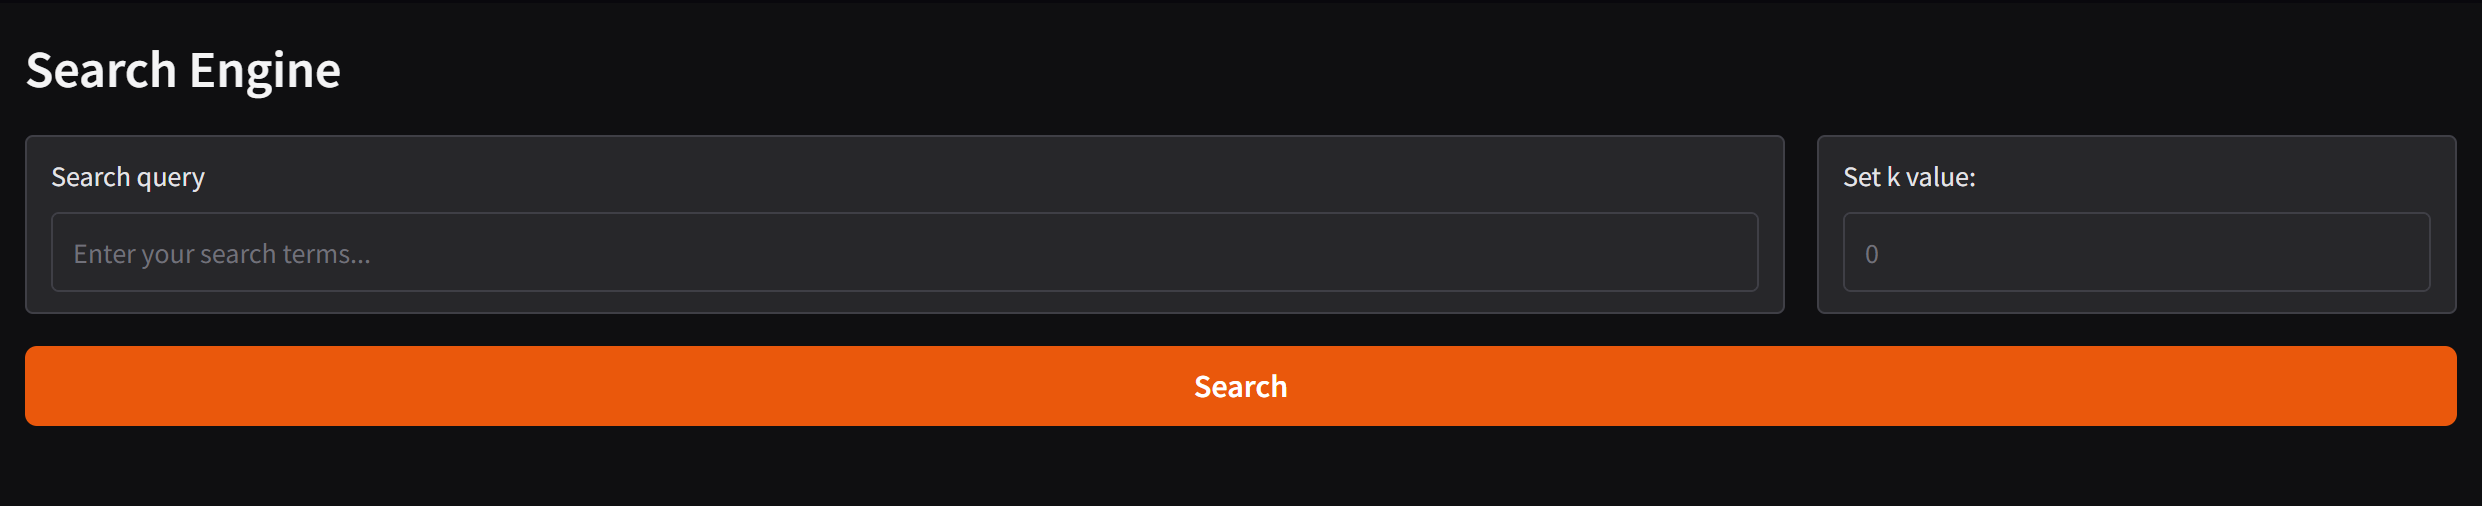
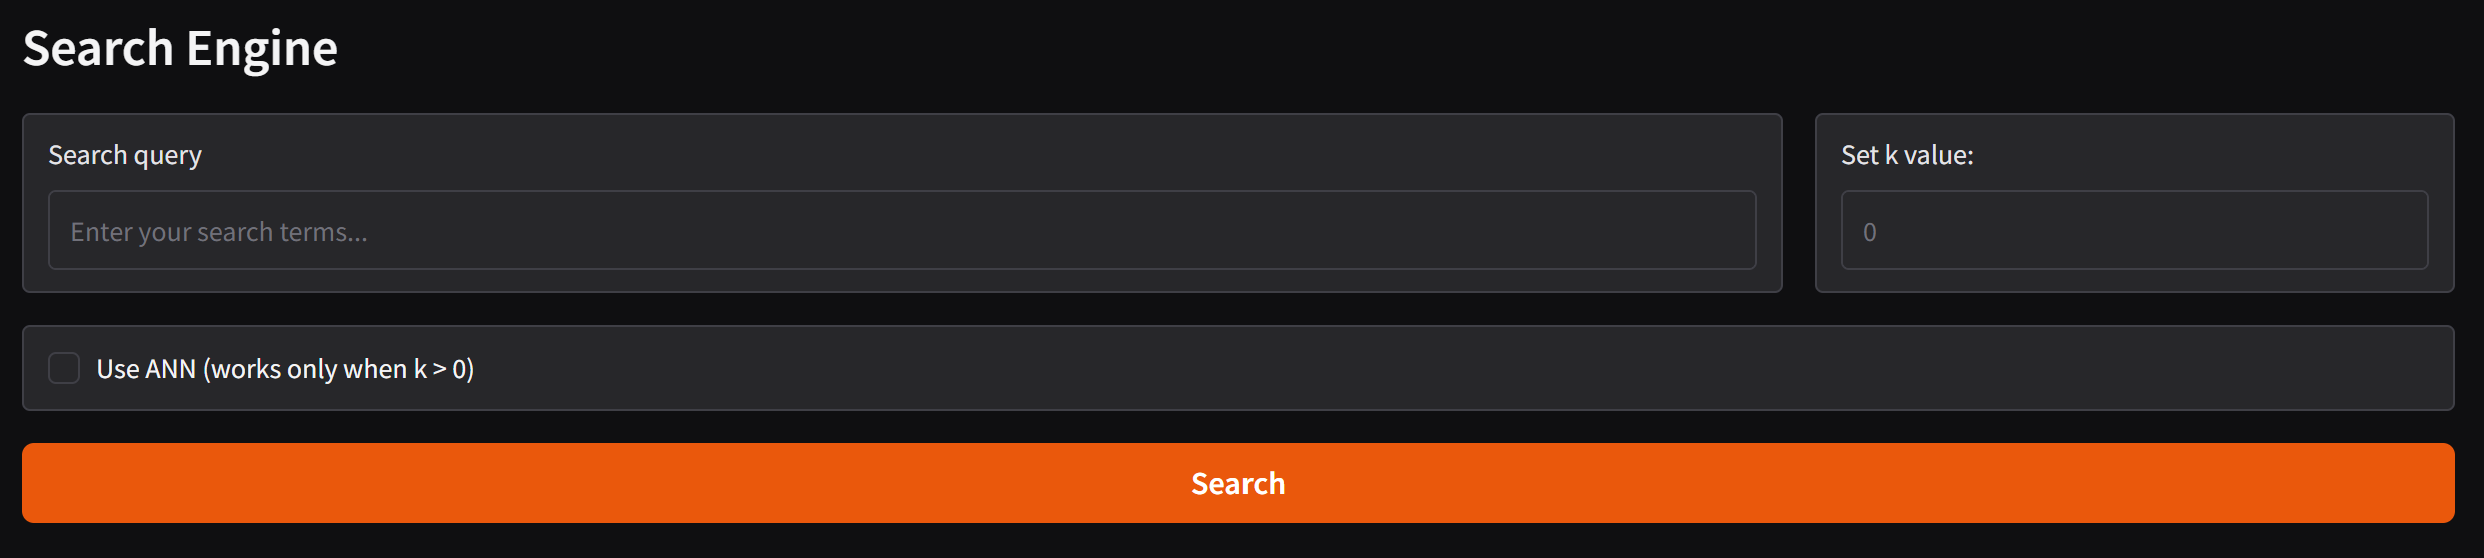
added ANN and changes to README.md

diff --git a/SearchEngine.py b/SearchEngine.py
@@ -7,6 +7,7 @@ from nltk.tokenize import word_tokenize
 from sklearn.feature_extraction.text import TfidfTransformer
 from sklearn.decomposition import TruncatedSVD
 from sklearn.preprocessing import normalize
+import hnswlib
 
 def cosine_similarity(q, A):
     print(q.shape, A.shape)
@@ -30,11 +31,11 @@ def tf_idf(matrix):
 
 
 class SearchEngine:
-    def __init__(self):  # normalized=True
-        # self.normalized = normalized
+    def __init__(self):
         self.k = 0
         self.reduced_matrix = None
         self.svd = None
+        self.p = None
         terms_by_doc = sp.sparse.load_npz("terms_by_doc.npz")
         with open("documents.json", "r") as f:
             self.documents = json.load(f)
@@ -43,10 +44,9 @@ class SearchEngine:
         with open("stop_words.txt", 'r') as sw_file:
             self.stop_words = set(sw_file.read().splitlines())
         self.stemmer = PorterStemmer()
-        # perfoming TF-IDF on the matrix
         tfidf_transformer = TfidfTransformer()
         self.tfidf_matrix = tfidf_transformer.fit_transform(
-            terms_by_doc.T).T  # if self.normalized else tf_idf(terms_by_doc)
+            terms_by_doc.T).T
 
     def _reduce_svd_matrix(self, k):
         matrix_file = "reduced_matrix_" + str(k) + ".pkl"
@@ -65,7 +65,21 @@ class SearchEngine:
                 pickle.dump(svd, file)
         return reduced_matrix, svd
 
-    def search(self, search_terms: str, k: int = 0):
+    def _get_ann_index(self, k):
+        index_file = "ann_index_" + str(k) + ".pkl"
+        try:
+            with open(index_file, 'rb') as file:
+                p = pickle.load(file)
+        except FileNotFoundError:
+            p = hnswlib.Index(space='cosine', dim=self.reduced_matrix.shape[0])
+            p.init_index(max_elements=self.reduced_matrix.shape[1])
+            p.set_ef(100)
+            p.add_items(self.reduced_matrix.T)
+            with open(index_file, 'wb') as file:
+                pickle.dump(p, file)
+        return p
+
+    def search(self, search_terms: str, k: int = 0, ann: bool = False):
         query = sp.sparse.lil_matrix((len(self.terms), 1))
         words = word_tokenize(search_terms.lower())
         stemmed_words = [self.stemmer.stem(word) for word in words if word not in self.stop_words]
@@ -76,28 +90,40 @@ class SearchEngine:
         for term in filtered_terms:
             idx = self.terms[term]
             query[idx, 0] += 1
-            query *= 1 / query.sum()
+        query *= 1 / query.sum()
         if k == 0:
+            if ann:
+                print("To use ANN, k has to be greater than 0. This search is performed using cosine similarity")
             fit = cosine_similarity_normalized(query, self.tfidf_matrix).toarray()[0]
-        elif k == self.k:
-            reduced_query = self.svd.transform(query.T)
-            reduced_query = normalize(reduced_query, norm='l2', axis=1).T
-            fit = cosine_similarity_normalized(reduced_query, self.reduced_matrix)[0]
+            result_indices = np.argsort(-fit)
+            indices = result_indices[: 20]
+            accuracy = fit[indices]
         else:
-            raw_reduced_matrix, self.svd = self._reduce_svd_matrix(k)
-            self.reduced_matrix = normalize(raw_reduced_matrix, norm='l2', axis=1).T
+            if k != self.k:
+                raw_reduced_matrix, self.svd = self._reduce_svd_matrix(k)
+                self.reduced_matrix = normalize(raw_reduced_matrix, norm='l2', axis=1).T
+                if ann:
+                    self.p = self._get_ann_index(k)
+                self.k = k
             reduced_query = self.svd.transform(query.T)
             reduced_query = normalize(reduced_query, norm='l2', axis=1).T
-            fit = cosine_similarity_normalized(reduced_query, self.reduced_matrix)[0]
-            self.k = k
+            if ann:
+                indices, distances = self.p.knn_query(reduced_query.T, k=20)
+                accuracy = 1 - distances[0]
+                indices = indices[0]
+            else:
+                fit = cosine_similarity_normalized(reduced_query, self.reduced_matrix)[0]
+                result_indices = np.argsort(-fit)
+                indices = result_indices[: 20]
+                accuracy = fit[indices]
 
-        result_indices = np.argsort(-fit)
         results = [
             {
                 "title": f"{self.documents[idx]}",
                 "url": f"{self.documents[idx]}",
-                "snippet": f"Match accuracy: {fit[idx]}",
-            } for idx in result_indices[: 20]]
+                "snippet": f"Match accuracy: {acc}",
+            } for idx, acc in zip(indices, accuracy)]
+
         return results
 
 

diff --git a/main.py b/main.py
@@ -2,10 +2,9 @@ import gradio as gr
 from SearchEngine import SearchEngine
 
 
-# Format results with HTML for better display
-def get_and_format_search_results(query, k):
+def get_and_format_search_results(query, k, ann):
     k = int(k) if k != '' else 0
-    results = SE.search(query, k=k)
+    results = SE.search(query, k=k, ann=ann)
     html = "<div style='font-family: Arial, sans-serif;'>"
     for result in results:
         html += f"""
@@ -26,13 +25,15 @@ with gr.Blocks(title="Search Engine") as web_ui:
             search_input = gr.Textbox(label="Search query", placeholder="Enter your search terms...")
         with gr.Column(scale=1):
             k_value = gr.Textbox(label="Set k value:", placeholder="0")
+    ann_checkbox = gr.Checkbox(label="Use ANN (works only when k > 0)", value=False)
 
     search_button = gr.Button("Search", variant="primary")
     results_output = gr.HTML(label="Search Results")
 
+
     search_button.click(
         fn=get_and_format_search_results,
-        inputs=[search_input, k_value],
+        inputs=[search_input, k_value, ann_checkbox],
         outputs=results_output
     )
 

diff --git a/README.md b/README.md
@@ -31,24 +31,38 @@ and click on the local URL.
 
 The performance and relevance of results can vary with the number of components `k` used in Truncated SVD. Below is a comparison of search results with different `k` values.
 
+These results were acquired from 10000 documents containing 51435 different words.
+Queries for k equal 250 and 500 were carried out using ANN and the rest - using cosine similarity.
+
 ```query```: `bloody war in middle ages`
 
-| k=0                       | k=50                      | k=100                     | k=250                     |
-|---------------------------|---------------------------|---------------------------|---------------------------|
-| High_Middle_Ages (0.415)  | Early_Middle_Ages (0.817) | High_Middle_Ages (0.752)  | High_Middle_Ages (0.884)  |
-| Early_Middle_Ages (0.345) | High_Middle_Ages (0.814)  | Early_Middle_Ages (0.743) | Early_Middle_Ages (0.739) |
-| Middle_Ages (0.287)       | Modern_History (0.779)    | Medieval_warfare (0.689)  | Medieval (0.627)          |
-| Medieval (0.287)          | Licinius (0.760)          | Medieval (0.689)          | Medieval_warfare (0.627)  |
-| Medieval_warfare (0.287)  | Medieval_warfare (0.756)  | Middle_Ages (0.689)       | Middle_Ages (0.627)       |
+| k=0                       | k=50                      | k=100                        | k=250                        | k=500                     |
+|---------------------------|---------------------------|------------------------------|------------------------------|---------------------------|
+| High_Middle_Ages (0.279)  | Peter_I_of_Russia (0.885) | World_War_I (0.794)          | High_Middle_Ages (0.686)     | High_Middle_Ages (0.730)  |
+| Early_Middle_Ages (0.232) | World_War_I (0.877)       | World_War_II (0.758)         | Early_Middle_Ages (0.604)    | Early_Middle_Ages (0.625) |
+| Middle_Ages (0.203)       | Nazi_Germany (0.857)      | Nazi_Germany (0.753)         | Warfare (0.603)              | Middle_Ages (0.570)       |
+| Medieval (0.203)          | World_War_II (0.838)      | Peter_I_of_Russia (0.748)    | Conventional_warfare (0.571) | Medieval_warfare (0.570)  |
+| Medieval_warfare (0.203)  | Anglo-Dutch_War (0.836)   | Conventional_warfare (0.748) | Middle_Ages (0.545)          | Medieval (0.570)          |
+
+As we can see, lower k values remove a lot of information leading to more general results concerning war, while higher values return results focused on middle ages. Another thing to consider is rather small batch of documents this query was performed on, which might be the reason for lower accuracy of results.
 
 ---
 ```query```: `computer science`
 
-| k=0                                  | k=50                                 | k=100                                | k=250                                |
-|--------------------------------------|--------------------------------------|--------------------------------------|--------------------------------------|
-| Theoretical_computer_science (0.545) | Theoretical_computer_science (0.982) | Theoretical_computer_science (0.963) | Theoretical_computer_science (0.933) |
-| Natural_sciences (0.432)             | Computing (0.951)                    | Computer_science (0.918)             | Computing (0.829)                    |
-| Computer_science (0.426)             | Computer_science (0.951)             | Computing (0.918)                    | Computer_science (0.829)             |
-| Computing (0.462)                    | Computability_theory (0.944)         | Computability_theory (0.880)         | Computation (0.737)                  |
-| Computers (0.407)                    | Debugging (0.935)                    | Distributed_computing (0.863)        | Computer_vision (0.719)              |
+| k=0                                  | k=50                                 | k=100                                | k=250                                | k = 500                              |
+|--------------------------------------|--------------------------------------|--------------------------------------|--------------------------------------|--------------------------------------|
+| Theoretical_computer_science (0.545) | Theoretical_computer_science (0.982) | Theoretical_computer_science (0.963) | Theoretical_computer_science (0.933) | Theoretical_computer_science (0.920) |
+| Natural_sciences (0.432)             | Computing (0.951)                    | Computer_science (0.918)             | Computing (0.829)                    | Computer_science (0.703)             |
+| Computer_science (0.426)             | Computer_science (0.951)             | Computing (0.918)                    | Computer_science (0.829)             | Computing (0.703)                    |
+| Computing (0.426)                    | Computability_theory (0.944)         | Computability_theory (0.880)         | Computation (0.737)                  | Computation (0.690)                  |
+| Computers (0.407)                    | Debugging (0.935)                    | Distributed_computing (0.863)        | Computer_vision (0.719)              | Computer_vision (0.661)              |
 
+This time, when provided with much simpler query, all tested values of k provide quite similar results.
+
+## Conclusions
+
+The number of components used in SVD (k) significantly influences the relevance and specificity of search results of more advanced queries.
+Lower values (e.g., k=50) tend to generalize those queries, often returning loosely related topics.
+For simpler queries, SVD does not have much influence on the results.
+
+Approximate Nearest Neighbors (ANN) search method did not provide any significant time improvements, however this is probably due to the small dataset that those tests were concluded on.
